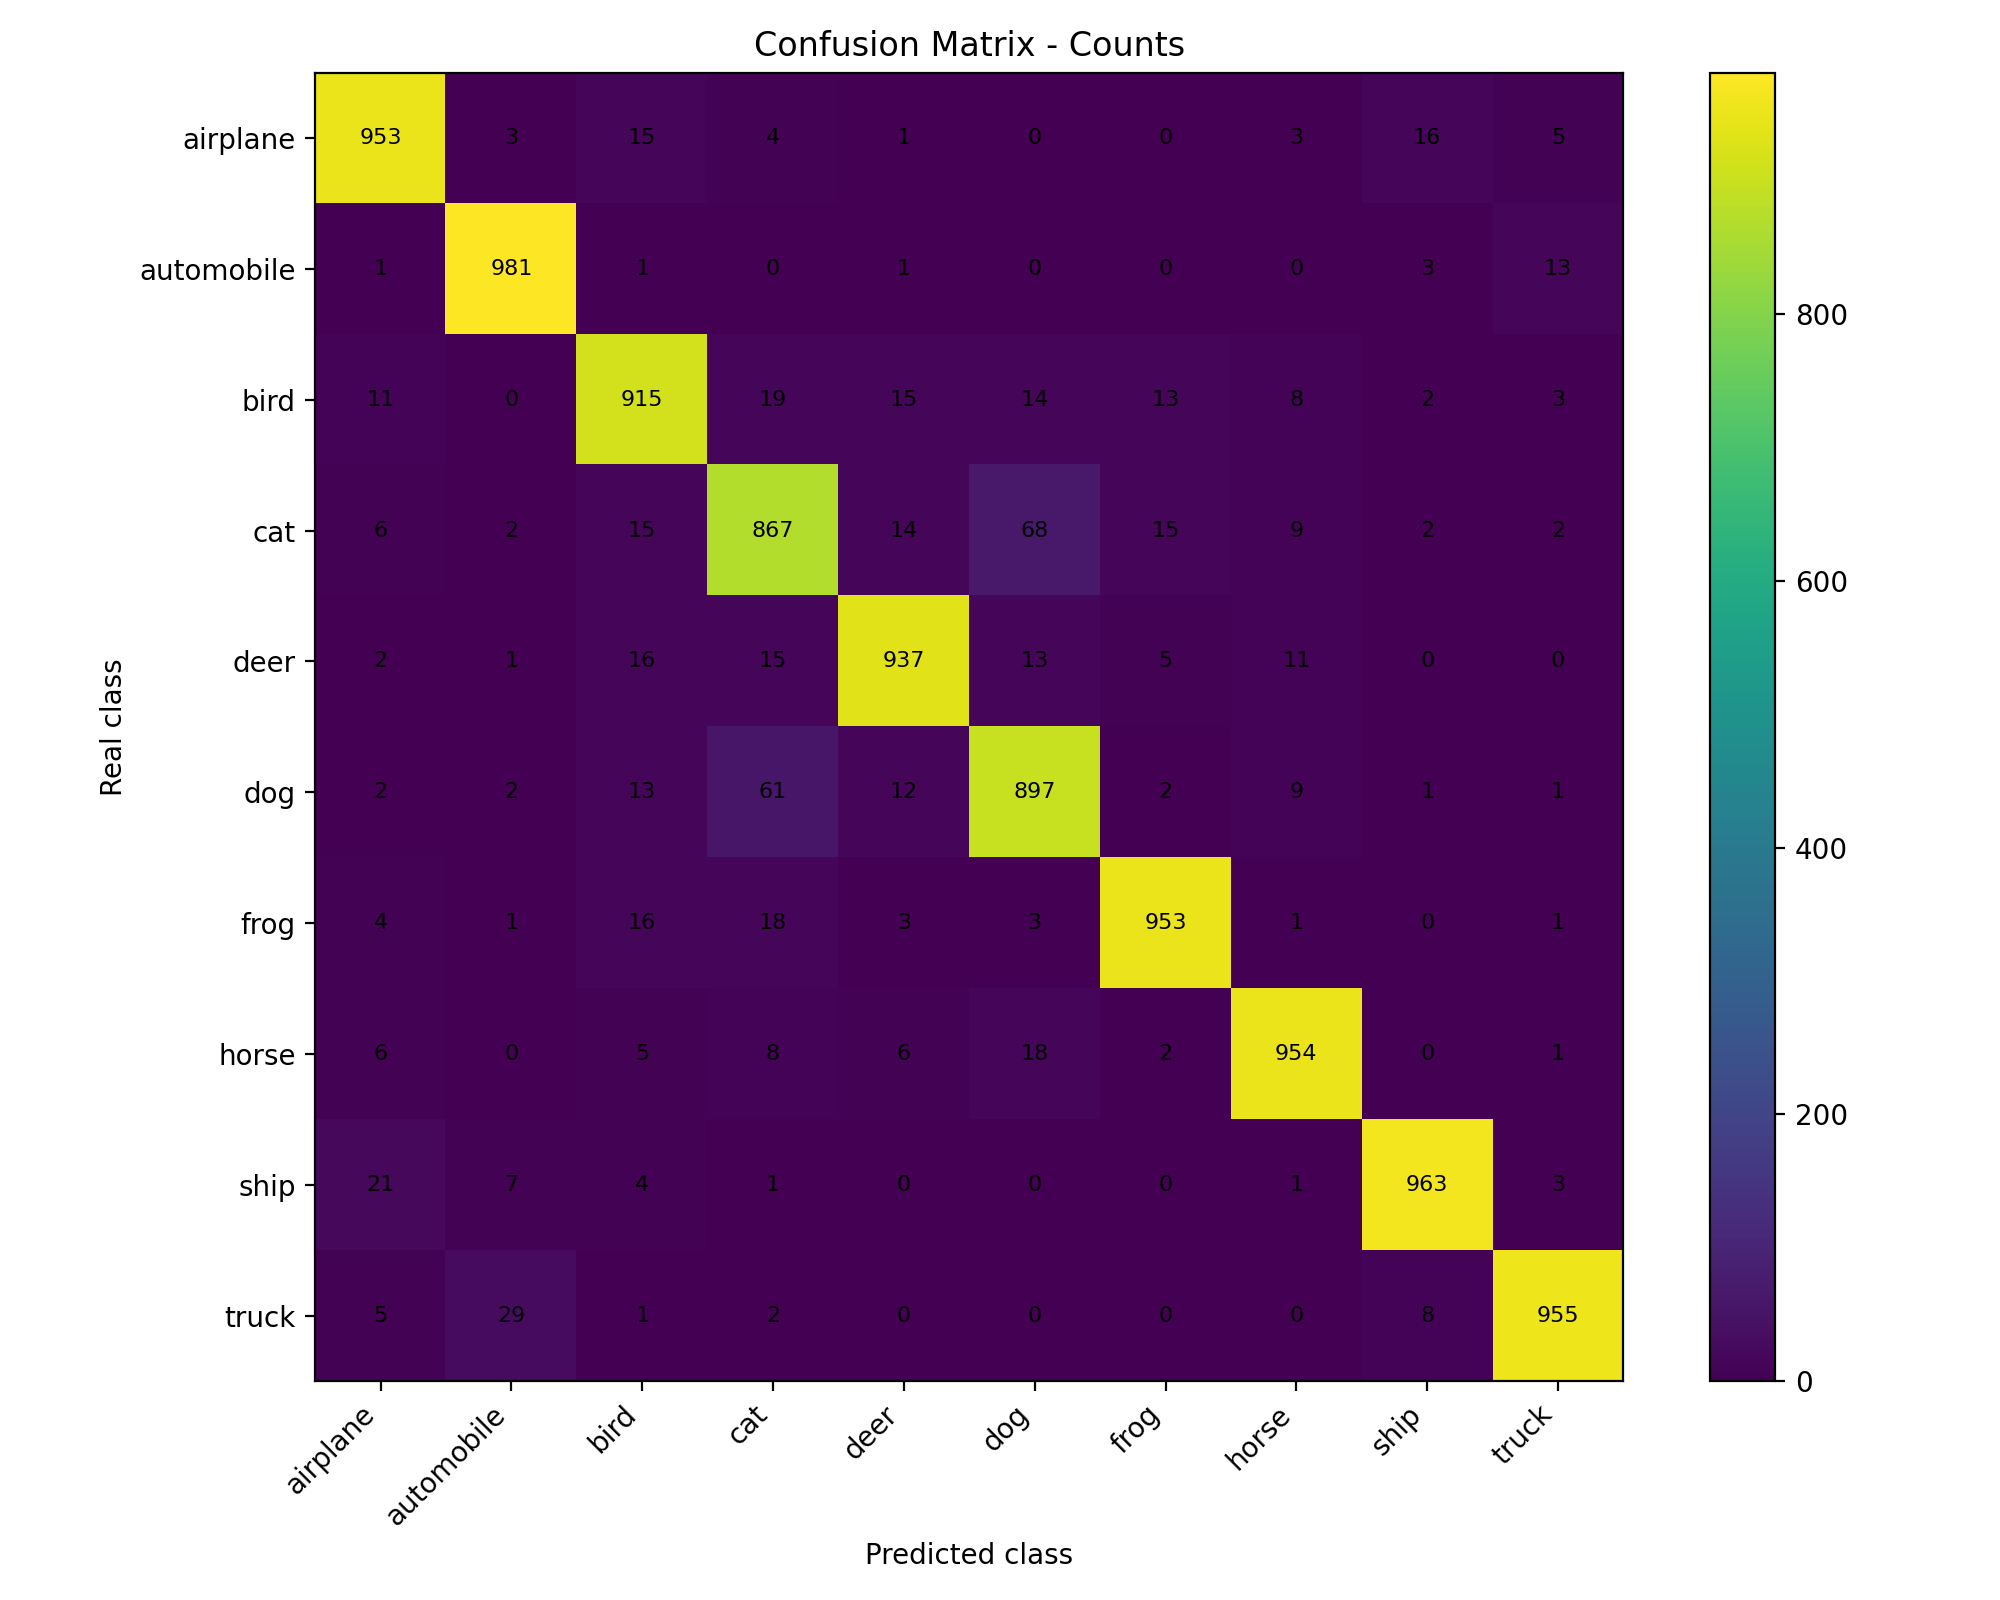
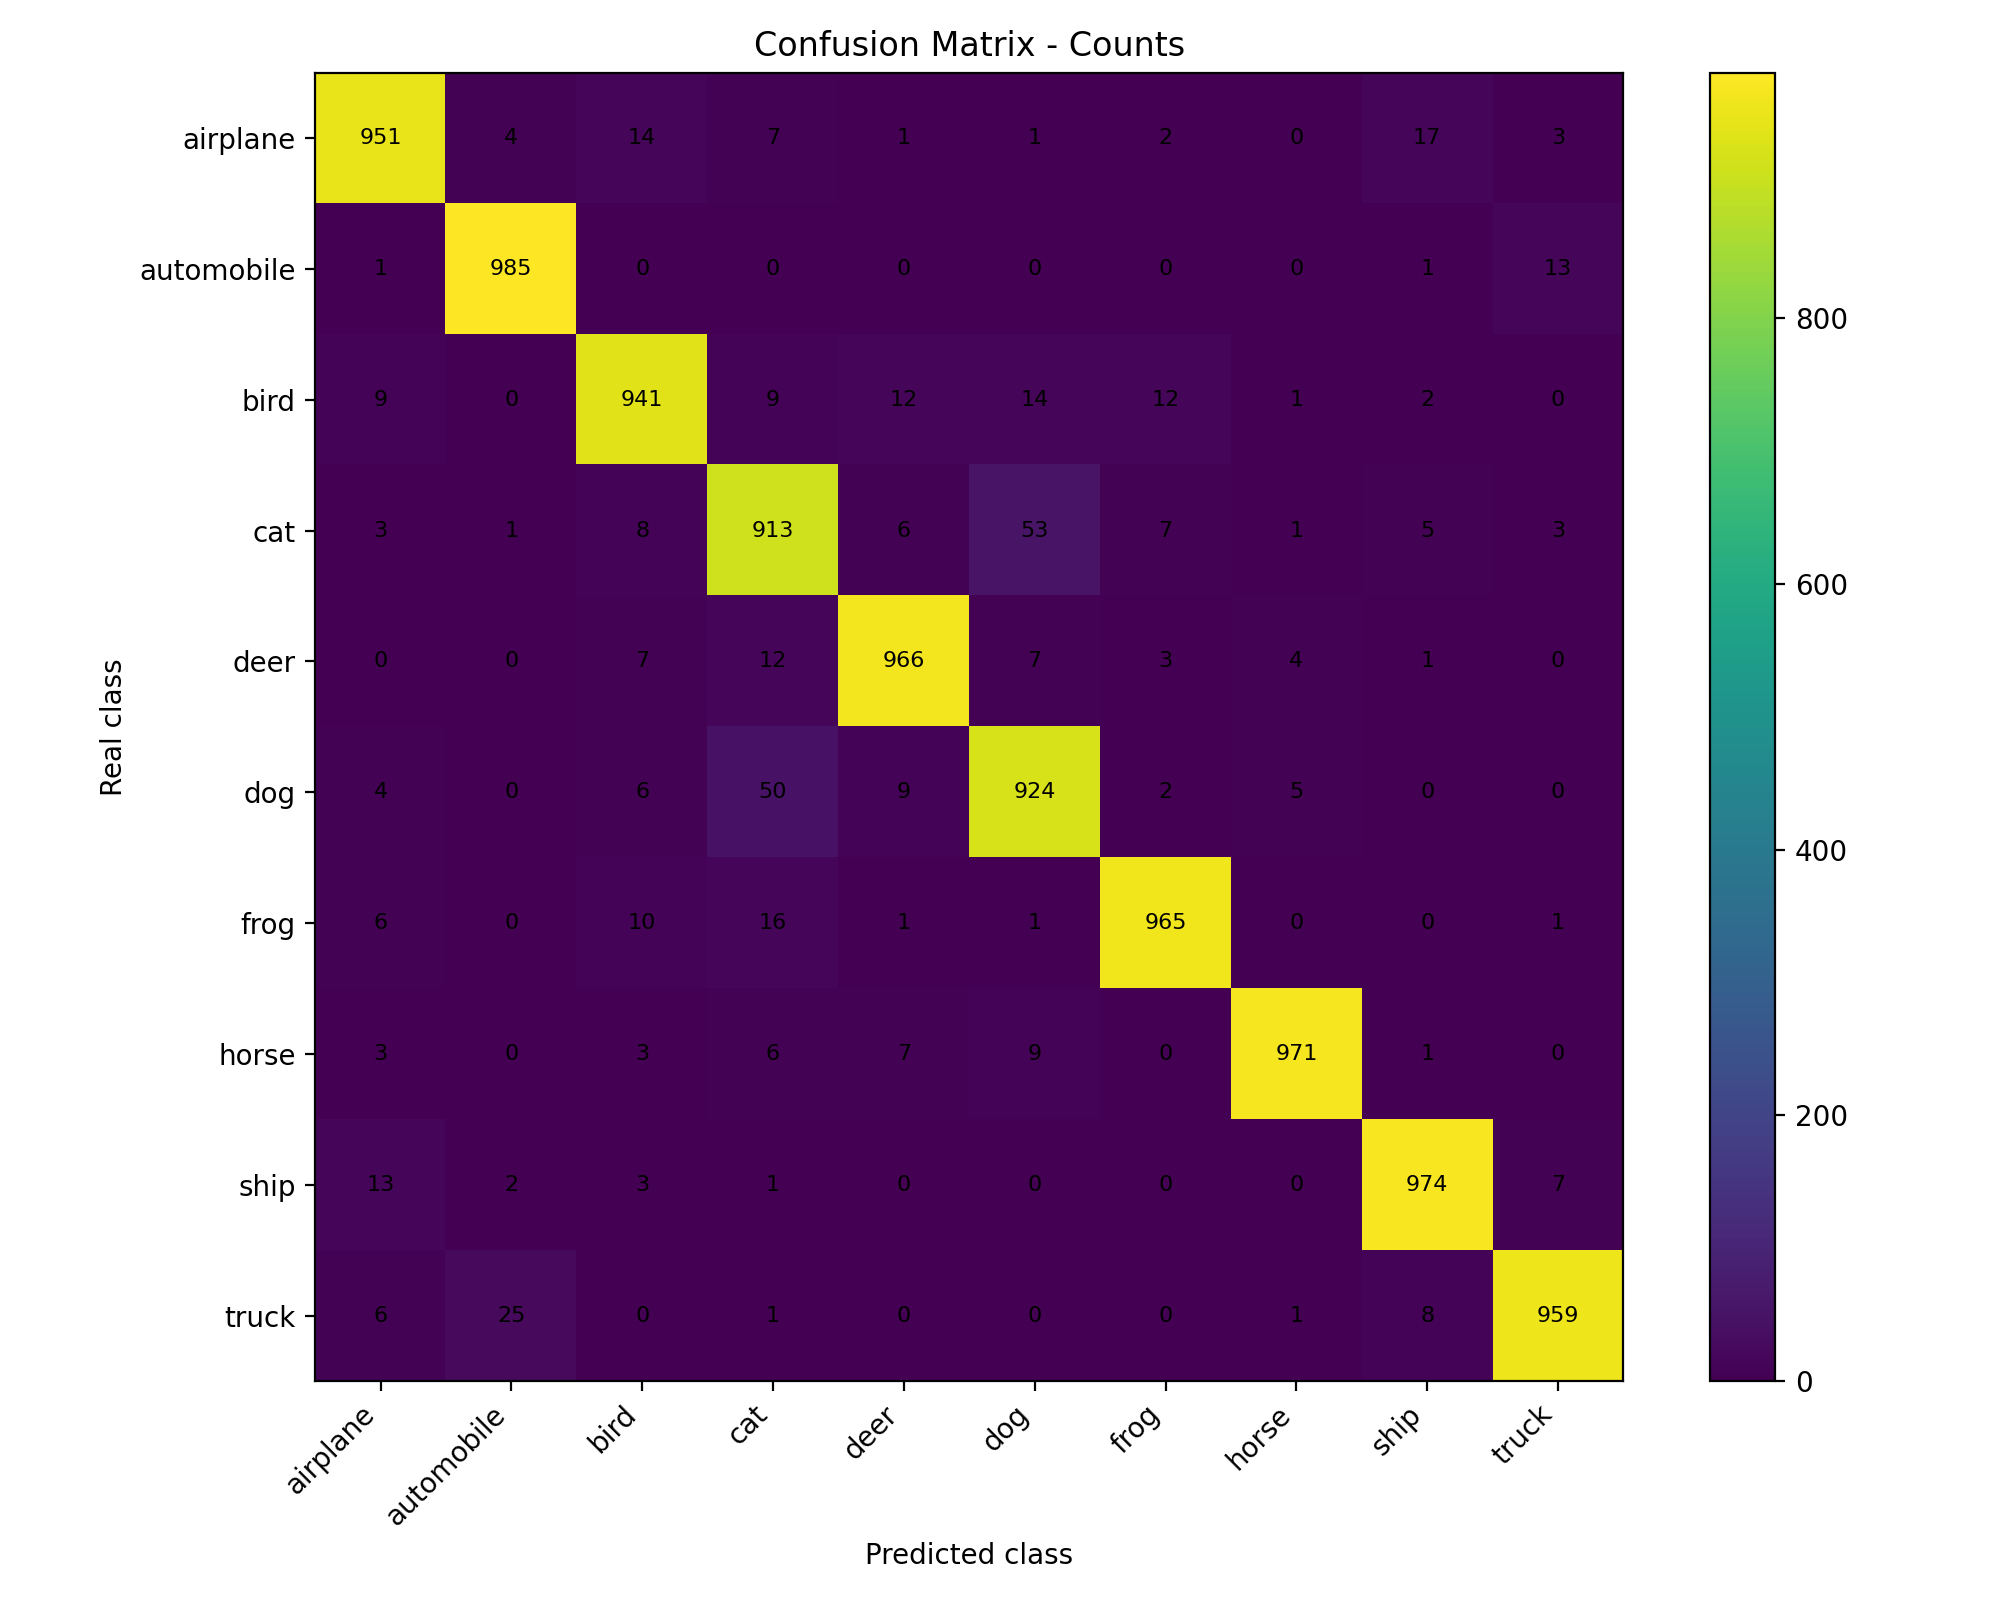
Update README with SGD benchmark results

diff --git a/train.py b/train.py
@@ -1,4 +1,5 @@
 import argparse
+from email import parser
 from pathlib import Path
 
 import torch
@@ -109,6 +110,23 @@ def parse_args():
     parser.add_argument("--lr", type=float, default=LEARNING_RATE)
     parser.add_argument("--weight-decay", type=float, default=WEIGHT_DECAY)
     parser.add_argument("--label-smoothing", type=float, default=LABEL_SMOOTHING)
+    parser.add_argument(
+    "--optimizer",
+    type=str,
+    default="adamw",
+    choices=["adamw", "sgd"],
+)
+
+    parser.add_argument(
+    "--momentum",
+    type=float,
+    default=0.9,
+)
+
+    parser.add_argument(
+    "--nesterov",
+    action="store_true",
+)
     parser.add_argument("--num-workers", type=int, default=2)
     parser.add_argument("--seed", type=int, default=42)
     parser.add_argument(
@@ -155,11 +173,20 @@ def main():
 
     loss_fn = nn.CrossEntropyLoss(label_smoothing=args.label_smoothing)
 
-    optimizer = optim.AdamW(
-        model.parameters(),
-        lr=args.lr,
-        weight_decay=args.weight_decay,
-    )
+    if args.optimizer == "adamw":
+        optimizer = optim.AdamW(
+            model.parameters(),
+            lr=args.lr,
+            weight_decay=args.weight_decay,
+        )
+    elif args.optimizer == "sgd":
+        optimizer = optim.SGD(
+            model.parameters(),
+            lr=args.lr,
+            momentum=args.momentum,
+            weight_decay=args.weight_decay,
+            nesterov=args.nesterov,
+        )
 
     scheduler = CosineAnnealingLR(
         optimizer,

diff --git a/src/config.py b/src/config.py
@@ -5,7 +5,7 @@ DATA_DIR = BASE_DIR / "data"
 MODELS_DIR = BASE_DIR / "models"
 IMAGES_DIR = BASE_DIR / "images"
 
-BEST_MODEL_PATH = MODELS_DIR / "cifar_resnet18_mixup_best.pth"
+BEST_MODEL_PATH = MODELS_DIR / "cifar_resnet18_sgd100_best.pth"
 
 CLASSES = [
     "airplane",

diff --git a/README.md b/README.md
@@ -2,7 +2,7 @@
 
 Small computer vision project using PyTorch and CIFAR-10.
 
-The project started with a simple CNN and was improved step by step to a tuned ResNet-18 model with regularization, data augmentation, MixUp training, evaluation tools, visualization, single-image prediction, and a local Gradio demo.
+The project started with a simple CNN and was improved step by step to a tuned ResNet-18 model with regularization, data augmentation, MixUp training, SGD/Nesterov optimization, evaluation tools, visualization, single-image prediction, and a local Gradio demo.
 
 ## Final Result
 
@@ -10,7 +10,9 @@ Best model:
 
 * Architecture: ResNet-18
 * Dataset: CIFAR-10
-* Optimizer: AdamW
+* Optimizer: SGD
+* Momentum: `0.9`
+* Nesterov: `true`
 * Scheduler: CosineAnnealingLR
 * Loss: CrossEntropyLoss with `label_smoothing=0.1`
 * Augmentation:
@@ -18,10 +20,9 @@ Best model:
   * RandomCrop
   * RandomHorizontalFlip
   * RandomErasing
-  * MixUp
-* MixUp alpha: `0.2`
-* Best test accuracy: **93.75%**
-* Errors: **625 / 10000**
+* Epochs: `100`
+* Best test accuracy: **95.49%**
+* Errors: **451 / 10000**
 
 ## Dataset
 
@@ -49,50 +50,51 @@ Classes:
 
 ## Results
 
-| Model                                               | Test Accuracy |
-| --------------------------------------------------- | ------------: |
-| Simple CNN                                          |        87.07% |
-| ResNet-18                                           |        92.92% |
-| ResNet-18 + Label Smoothing                         |        93.28% |
-| ResNet-18 + Label Smoothing + RandomErasing         |        93.56% |
-| ResNet-18 + Label Smoothing + RandomErasing + MixUp |    **93.75%** |
+| Model                                                        | Test Accuracy |
+| ------------------------------------------------------------ | ------------: |
+| Simple CNN                                                   |        87.07% |
+| ResNet-18                                                    |        92.92% |
+| ResNet-18 + Label Smoothing                                  |        93.28% |
+| ResNet-18 + Label Smoothing + RandomErasing                  |        93.56% |
+| ResNet-18 + Label Smoothing + RandomErasing + MixUp          |        93.75% |
+| ResNet-18 + SGD + Nesterov + Label Smoothing + RandomErasing |    **95.49%** |
 
 ## Per-Class Accuracy
 
 | Class      | Accuracy |
 | ---------- | -------: |
-| airplane   |   95.30% |
-| automobile |   98.10% |
-| bird       |   91.50% |
-| cat        |   86.70% |
-| deer       |   93.70% |
-| dog        |   89.70% |
-| frog       |   95.30% |
-| horse      |   95.40% |
-| ship       |   96.30% |
-| truck      |   95.50% |
+| airplane   |   95.10% |
+| automobile |   98.50% |
+| bird       |   94.10% |
+| cat        |   91.30% |
+| deer       |   96.60% |
+| dog        |   92.40% |
+| frog       |   96.50% |
+| horse      |   97.10% |
+| ship       |   97.40% |
+| truck      |   95.90% |
 
-The weakest classes are still visually similar animal classes, especially `cat` and `dog`.
+The weakest classes are still visually similar animal classes, especially `cat` and `dog`, but the SGD/Nesterov training recipe significantly improved these classes compared to the previous MixUp model.
 
 ## Most Common Errors
 
 | Real Class | Predicted Class | Count |
 | ---------- | --------------- | ----: |
-| cat        | dog             |    68 |
-| dog        | cat             |    61 |
-| truck      | automobile      |    29 |
-| ship       | airplane        |    21 |
-| bird       | cat             |    19 |
-| horse      | dog             |    18 |
-| frog       | cat             |    18 |
-| frog       | bird            |    16 |
-| deer       | bird            |    16 |
-| airplane   | ship            |    16 |
-| deer       | cat             |    15 |
-| cat        | frog            |    15 |
-| cat        | bird            |    15 |
-| bird       | deer            |    15 |
-| airplane   | bird            |    15 |
+| cat        | dog             |    53 |
+| dog        | cat             |    50 |
+| truck      | automobile      |    25 |
+| airplane   | ship            |    17 |
+| frog       | cat             |    16 |
+| bird       | dog             |    14 |
+| airplane   | bird            |    14 |
+| ship       | airplane        |    13 |
+| automobile | truck           |    13 |
+| deer       | cat             |    12 |
+| bird       | frog            |    12 |
+| bird       | deer            |    12 |
+| frog       | bird            |    10 |
+| horse      | dog             |     9 |
+| dog        | deer            |     9 |
 
 ## Confusion Matrix
 
@@ -108,7 +110,7 @@ Confusion matrix by percentage:
 
 The model was also tested on its most confident wrong predictions.
 
-![Most Confident Mistakes](images/cifar_resnet_mistakes.png)
+![Most Confident Mistakes](images/cifar_resnet_sgd100_mistakes.png)
 
 This helps show where the model is confidently wrong and which classes are still difficult to separate.
 
@@ -132,6 +134,8 @@ cifar10-resnet18-pytorch/
 │   └── utils.py
 ├── images/
 │   ├── cifar_resnet_mistakes.png
+│   ├── cifar_resnet_mixup_mistakes.png
+│   ├── cifar_resnet_sgd100_mistakes.png
 │   ├── confusion_resnet_counts.png
 │   └── confusion_resnet_percent.png
 ├── samples/
@@ -155,12 +159,13 @@ Model weights are stored separately and are not included in this repository.
 Best model file:
 
 ```text
-cifar_resnet18_mixup_best.pth
+cifar_resnet18_sgd100_best.pth
 ```
 
-Previous best model file:
+Previous best model files:
 
 ```text
+cifar_resnet18_mixup_best.pth
 cifar_resnet18_smooth_erasing_best.pth
 ```
 
@@ -173,7 +178,7 @@ https://drive.google.com/file/d/13ETZ2NhCuk5G91QQXIARWGrFjT1CcGMM/view?usp=drive
 Locally, the best model checkpoint should be placed here:
 
 ```text
-models/cifar_resnet18_mixup_best.pth
+models/cifar_resnet18_sgd100_best.pth
 ```
 
 The `models/` directory is ignored by Git.
@@ -202,7 +207,21 @@ Train the model with default settings:
 python3 train.py
 ```
 
-Train the MixUp model:
+Train the current best SGD/Nesterov model:
+
+```bash
+python3 train.py \
+  --epochs 100 \
+  --optimizer sgd \
+  --lr 0.1 \
+  --momentum 0.9 \
+  --nesterov \
+  --weight-decay 5e-4 \
+  --label-smoothing 0.1 \
+  --model-name cifar_resnet18_sgd100_best.pth
+```
+
+Train the previous MixUp model:
 
 ```bash
 python3 train.py \
@@ -211,13 +230,17 @@ python3 train.py \
   --model-name cifar_resnet18_mixup_best.pth
 ```
 
-Train for a custom number of epochs:
+Train with AdamW:
 
 ```bash
-python3 train.py --epochs 40
+python3 train.py \
+  --epochs 40 \
+  --optimizer adamw \
+  --lr 0.001 \
+  --weight-decay 5e-4
 ```
 
-Train with custom batch size:
+Train with a custom batch size:
 
 ```bash
 python3 train.py --epochs 40 --batch-size 128
@@ -237,10 +260,10 @@ python3 train.py --model-name custom_model.pth
 
 ### Evaluate
 
-Evaluate the best MixUp model:
+Evaluate the best SGD/Nesterov model:
 
 ```bash
-python3 evaluate.py --model-path models/cifar_resnet18_mixup_best.pth
+python3 evaluate.py --model-path models/cifar_resnet18_sgd100_best.pth
 ```
 
 Evaluate the default model from `src/config.py`:
@@ -263,15 +286,15 @@ It also saves confusion matrix images to the `images/` directory.
 Generate an image grid with the most confident wrong predictions:
 
 ```bash
-python3 visualize_mistakes.py --model-path models/cifar_resnet18_mixup_best.pth
+python3 visualize_mistakes.py --model-path models/cifar_resnet18_sgd100_best.pth
 ```
 
-Save MixUp mistakes visualization with a custom output name:
+Save SGD100 mistakes visualization with a custom output name:
 
 ```bash
 python3 visualize_mistakes.py \
-  --model-path models/cifar_resnet18_mixup_best.pth \
-  --output cifar_resnet_mixup_mistakes.png
+  --model-path models/cifar_resnet18_sgd100_best.pth \
+  --output cifar_resnet_sgd100_mistakes.png
 ```
 
 Change the number of shown mistakes:
@@ -288,12 +311,12 @@ Run prediction on a single image:
 python3 predict.py --image samples/cat.png
 ```
 
-Run prediction with the MixUp checkpoint:
+Run prediction with the best SGD/Nesterov checkpoint:
 
 ```bash
 python3 predict.py \
   --image samples/cat.png \
-  --model-path models/cifar_resnet18_mixup_best.pth
+  --model-path models/cifar_resnet18_sgd100_best.pth
 ```
 
 Run prediction on a custom image:
@@ -370,18 +393,21 @@ mps
 Main training settings for the best model:
 
 ```text
-Epochs: 40
-Optimizer: AdamW
+Epochs: 100
+Optimizer: SGD
+Learning rate: 0.1
+Momentum: 0.9
+Nesterov: true
+Weight decay: 5e-4
 Scheduler: CosineAnnealingLR
 Loss: CrossEntropyLoss(label_smoothing=0.1)
 RandomErasing: enabled
-MixUp alpha: 0.2
 Best checkpoint selection: by test accuracy
 ```
 
 ## Notes
 
-MixUp improved the final model from **93.56%** to **93.75%**.
+Switching from AdamW to SGD with momentum and Nesterov acceleration improved the final model from **93.75%** to **95.49%**.
 
 The most difficult classes were animals with similar visual features, especially:
 
@@ -398,26 +424,40 @@ The model was trained on CIFAR-10 images with a resolution of 32x32 pixels, so p
 Current release:
 
 ```text
+v1.3.0
+```
+
+Release highlights:
+
+* added optimizer selection to `train.py`
+* added SGD/Nesterov training support
+* improved best accuracy to **95.49%**
+* reduced errors from **625** to **451**
+* updated confusion matrix images
+* added SGD100 confident mistakes visualization
+* updated README and best model reference
+
+Previous release:
+
+```text
 v1.2.0
 ```
 
 Release highlights:
 
-* cleaned project structure
-* refactored training and evaluation pipeline
-* added single-image prediction
-* added CIFAR-10 sample export
-* added Gradio demo
 * added MixUp training support
 * improved best accuracy to **93.75%**
+* added MixUp confident mistakes visualization
+* updated README with MixUp results
 
 ## Future Improvements
 
 Possible next experiments:
 
-* SGD + Nesterov benchmark
-* 100–200 epoch training
+* SGD + Nesterov for 200 epochs
+* target 96% test accuracy
 * CutMix
+* MixUp with SGD
 * ResNet-34
 * WideResNet
 * stronger augmentation